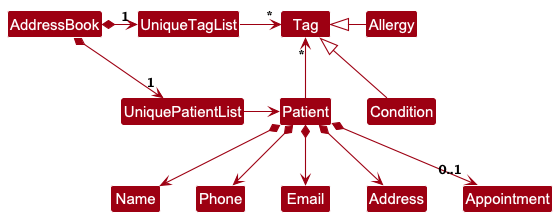
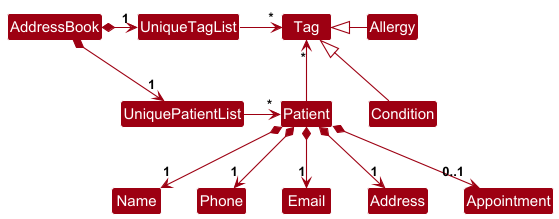
Update UG quick start and use case 7 as well as regenerate UML diagrams
The quick start section used GIFs which are no longer permitted,
and lacked sufficient guidance for non-technical users.

Use case 7 also required amendments based on reviewer feedback
regarding main success scenario and extension wording.

Replace GIFs with still images and revise quick start to be more
conversational and dummy-proof. Update Ui.png to reflect current
UI. Amend use case 7 following reviewer feedback. Regenerate PNG
files for BetterModelClassDiagram, DeleteSequenceDiagram, and
ModelClassDiagram.

diff --git a/docs/UserGuide.md b/docs/UserGuide.md
@@ -25,41 +25,46 @@ Yes, if your clinic is still:
 
 ## Quick start
 
-1. First, make sure you have Java `17` or above installed in your computer!<br>
-   **Mac users:** Check out [this guide](https://se-education.org/guides/tutorials/javaInstallationMac.html) to get the
-   exact JDK version you need.
+Don't worry if you're not tech-savvy — just follow these steps one by one and you'll be up and running in no time!
 
-2. Next, download the latest `doctorwho.jar` file from [here](https://github.com/AY2526S2-CS2103T-F10-1/tp/releases).
+1. First, make sure you have Java `17` or above installed on your computer. Not sure if you have it? Open a terminal and type `java -version` — if you see a version number of 17 or higher, you're good to go!<br>
+   **Mac users:** Check out [this guide](https://se-education.org/guides/tutorials/javaInstallationMac.html) to get the exact JDK version you need.
 
-3. Then, move the `doctorwho.jar` file to the folder where you want to keep your contacts (we suggest you place it in a
-   new, empty folder!)
-   ![Moving .jar file to folder](images/ShiftJarFile.gif)
+2. Next, download the latest `doctorwho.jar` file from [here](https://github.com/AY2526S2-CS2103T-F10-1/tp/releases). You'll find it under the **Assets** section of the latest release — just click on `doctorwho.jar` to download it.
 
-4. Now, open up a command terminal, go to the folder where `doctorwho.jar` is, and use the `java -jar doctorwho.jar`
-   command to run the application. You've just taken your first step toward managing contacts quickly!
-   ![Opening the .jar file](images/OpeningJarFile.gif)
+3. Move the `doctorwho.jar` file to the folder where you'd like to store your patient data. We recommend creating a brand new empty folder for this (e.g. a folder named `DoctorWho` on your Desktop), so everything stays neat and tidy.
 
-5. You should now see some sample data. This is what DoctorWho will look like!
-   ![Ui](images/Ui.png)
+   ![Moving .jar file to folder](images/ShiftingJarFile.png)
 
-6. Type the command in the command box and press Enter to execute it. e.g. typing **`help`** and pressing Enter will
-   open the help window.<br>
-   Some example commands you can try:
+4. Now, let's launch the app! Open a command terminal in your `DoctorWho` folder:
 
-    * `list` : Lists all patients.
+   - **Windows:** Press `Win + R`, type `cmd`, and hit Enter.
+   - **Mac/Linux:** Search for **Terminal** in Spotlight or your app menu.
 
-    * `add n/John Doe p/98765432 e/johnd@example.com a/John street, block 123, #01-01` : Adds a patient named `John Doe`
-      to the list of patients.
+   Then, navigate to your folder. For example, if you placed it on your Desktop in a folder called `DoctorWho`, type:
+```
+   cd Desktop/DoctorWho
+```
+   - Finally, run the app with:
+```
+   java -jar doctorwho.jar
+```
 
-    * `delete 3` : Deletes the 3rd patient shown in the current list.
+   ![Opening the app via terminal](images/OpeningJarFile.png)
 
-    * `apt 3 d/01-04-2026 09:00 dur/60 note/Follow-up for diabetes review` : Schedule an appointment for the 3rd patient
-      shown in the current list.
+5. DoctorWho will launch with some sample data so you can explore right away — it should look something like this:
 
-    * `dapt 3` : Remove an appointment from the 3rd patient shown on the list.
+   ![DoctorWho UI](images/Ui.png)
 
-7. Refer to the [Features](#features) below for details of each command, and [Command Summary](#command-summary) gives
-   you a quick cheatsheet in case you forget.
+6. Type a command in the command box at the top and press **Enter** to run it. Here are a few to try out:
+
+   * `list` — Lists all patients.
+   * `add n/John Doe p/98765432 e/johnd@example.com a/John street, block 123, #01-01` — Adds a patient named `John Doe`.
+   * `delete 3` — Deletes the 3rd patient in the current list.
+   * `apt 3 d/01-04-2026 09:00 dur/60 note/Follow-up for diabetes review` — Schedules an appointment for the 3rd patient.
+   * `dapt 3` — Removes the appointment from the 3rd patient.
+
+7. When you're ready to explore more, check out the [Features](#features) section for the full command details, or jump to the [Command Summary](#command-summary) for a quick cheatsheet!
 
 --------------------------------------------------------------------------------------------------------------------
 

diff --git a/docs/DeveloperGuide.md b/docs/DeveloperGuide.md
@@ -428,9 +428,8 @@ Extensions
 **Main Success Scenario:**
 
 1. User requests to list appointments.
-2. DoctorWho displays all patients with scheduled appointments.
+2. DoctorWho displays all appointments.
 3. DoctorWho presents the appointments in ascending start date-time order.
-4. User reviews the displayed appointment list.
 
    Use case ends.
 
@@ -443,6 +442,11 @@ Extensions
       Use case ends.
 
 * 1b. User enters an invalid date value.
+    * 1b1. DoctorWho shows an error message.
+
+      Use case ends.
+
+* 1c. User enters an invalid date format.
     * 1b1. DoctorWho shows an error message.
 
       Use case ends.
